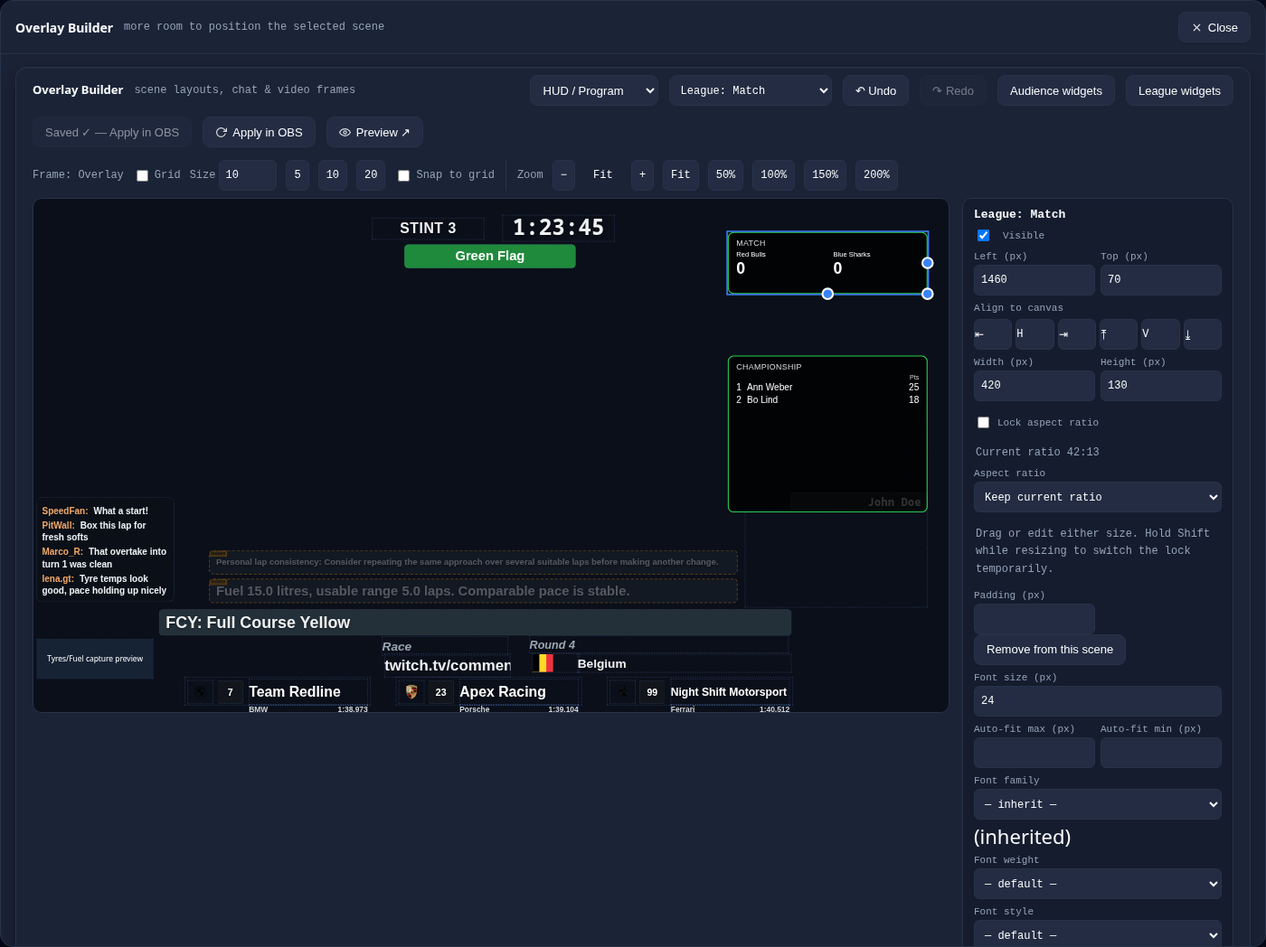
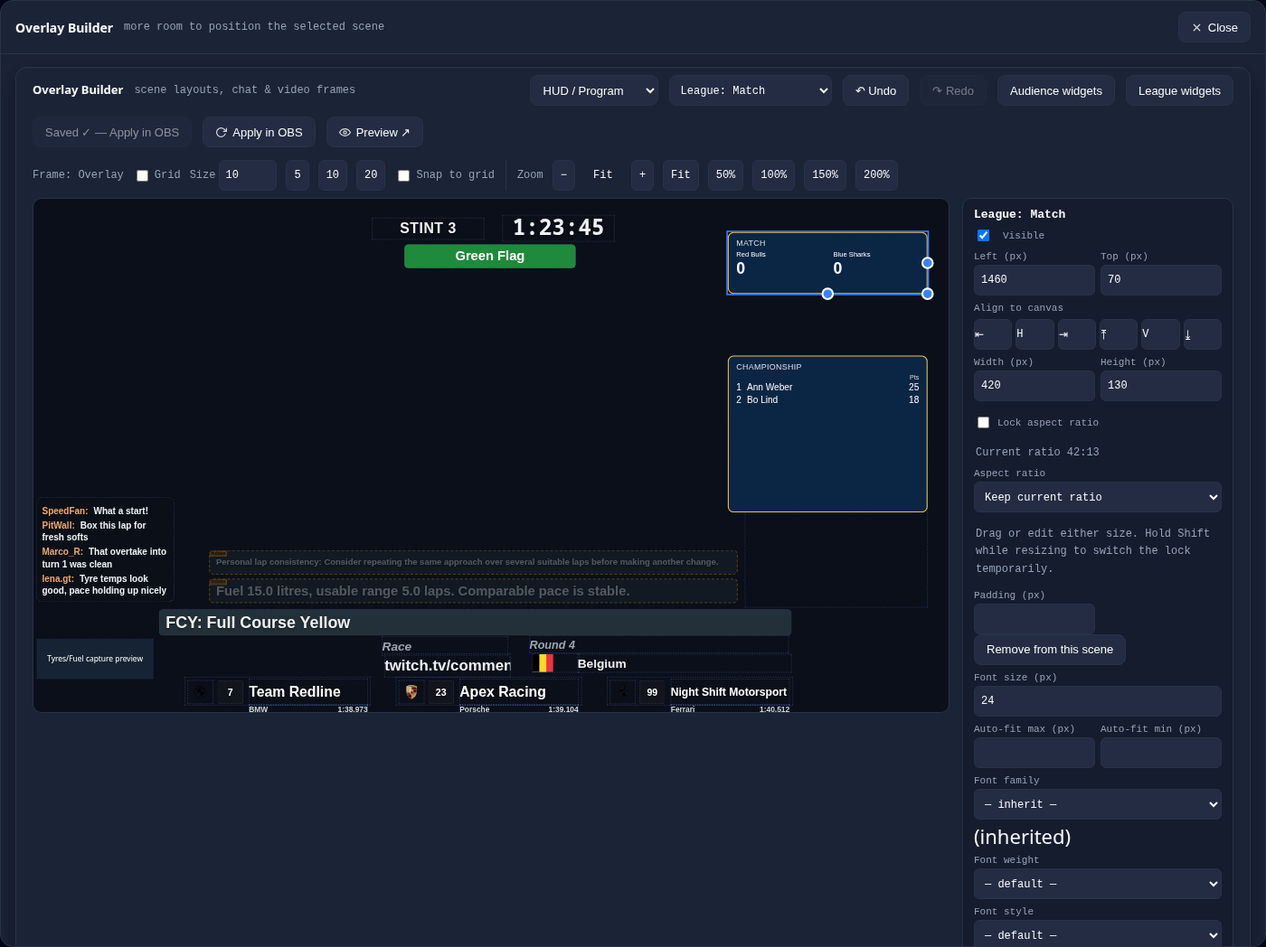
feat(league): league look from the profile's overlay variables, whole table rows, switch reset on event load
A widget's colours follow --league-widget-bg, -text and -accent from the
profile's overlay CSS and the builder keeps them as references. A table
shows the whole rows that fit its box and counts the rest. Loading an
event hides every widget again; the Companion keys switch by position.

Changed region(s): [[0.5529, 0.3664, 0.7371, 0.5496], [0.5529, 0.2443, 0.7371, 0.3359]]

diff --git a/src/ui/league-widgets.js b/src/ui/league-widgets.js
@@ -26,13 +26,26 @@
       parts.push(box);
     } else if (row.form === 'table') {
       const grid = node('div', 'lw-table');
-      if (typeof v.value_title === 'string' && v.value_title) grid.appendChild(node('span', 'lw-head', v.value_title));
-      (Array.isArray(v.rows) ? v.rows : []).forEach(r => {
-        grid.append(node('span', 'lw-rank', r.rank), node('span', 'lw-name', r.name), node('span', 'lw-row-value', r.value));
-      });
+      grid.head = typeof v.value_title === 'string' && v.value_title ? [node('span', 'lw-head', v.value_title)] : [];
+      grid.rows = (Array.isArray(v.rows) ? v.rows : []).map(r =>
+        [node('span', 'lw-rank', r.rank), node('span', 'lw-name', r.name), node('span', 'lw-row-value', r.value)]);
+      grid.append(...grid.head, ...grid.rows.flat());
       parts.push(grid);
     }
     el.replaceChildren(...parts);
+  }
+  // A table keeps only the whole rows that fit the box, its last line saying how many
+  // are left out. Measured once the slot is shown: a hidden slot has no height.
+  function capRows(el) {
+    const grid = el.querySelector('.lw-table');
+    if (!grid || !grid.rows || !(el.clientHeight > 0)) return;
+    const fits = () => el.scrollHeight <= el.clientHeight;
+    if (fits()) return;
+    for (let n = grid.rows.length - 1; n >= 0; n--) {
+      grid.replaceChildren(...grid.head, ...grid.rows.slice(0, n).flat(),
+        node('span', 'lw-more', '+' + (grid.rows.length - n) + ' more'));
+      if (fits()) return;
+    }
   }
   function expire(root, now = performance.now()) {
     slots(root).forEach(el => {
@@ -57,6 +70,7 @@
       deadlines.set(el, row.holdFor === null ? Infinity
         : Number.isFinite(row.holdFor) ? now + Math.max(0, Math.min(30, row.holdFor) - transit) * 1000 : now);
       el.hidden = false;
+      capRows(el);
     });
     expire(root, now);
     return true;

diff --git a/tests/test_league_widgets.py b/tests/test_league_widgets.py
@@ -124,6 +124,18 @@ def t_markup_escapes_the_title_and_only_placed_widgets_reach_a_page():
         pass
 
 
+def t_the_widget_colours_follow_the_profiles_overlay_variables():
+    page = lw.enhance_html(BASE, [SCORE], {lw.slot_id("match-score"): {}})
+    (slot,) = ob.extract_slots(page)
+    assert slot["vars"] == {"color": "var(--league-widget-text, #ffffff)",
+                            "background": "var(--league-widget-bg, rgba(0,0,0,.8))",
+                            "borderColor": "var(--league-widget-accent, #27d34d)"}, \
+        "the builder saves the colours as references, so a profile's :root variables restyle the widget"
+    css = ob.compile_overlay_css({"slots": {slot["id"]: {"left": 10, **slot["vars"]}},
+                                  "customCss": ":root { --league-widget-bg: #102030; }"}, [slot])
+    assert "background: var(--league-widget-bg, rgba(0,0,0,.8))" in css and "--league-widget-bg: #102030" in css, css
+
+
 def t_the_builder_offers_each_widget_as_a_slot_and_compiles_its_style():
     page = lw.enhance_html(BASE, [SCORE, TABLE], {lw.slot_id(w["id"]): {} for w in (SCORE, TABLE)})
     slots = {s["id"]: s for s in ob.extract_slots(page)}
@@ -263,6 +275,20 @@ def t_a_value_change_reaches_the_pages_only_once_the_director_shows_it():
         assert live.set("2", "toggle") == (True, "standings") and len(live.data()["widgets"]) == 2
         assert live.set("match-score", "toggle") == (True, "match-score")
         assert [w["id"] for w in live.data()["widgets"]] == ["standings"]
+
+
+def t_loading_an_event_hides_every_widget_again():
+    with tempfile.TemporaryDirectory() as d, league_sim.LeagueSim(key=KEY) as sim:
+        live, _snap = _live(d, sim)
+        live.client.step()
+        live.set("1", "show")
+        assert live.data()["widgets"], "shown"
+        live.client.step()
+        ls.update(ls.path_in(d), current="leg-2")
+        assert live.data()["widgets"], "a race change keeps the switch"
+        ls.store(ls.path_in(d), REF, ls.fetch_event(_cfg(sim), REF), now=4e9)
+        assert live.data()["widgets"] == [], "a reload of the event starts hidden again"
+        assert [r["shown"] for r in live.director()["widgets"]] == [False, False]
 
 
 def t_the_switch_refuses_a_widget_the_event_does_not_list():
@@ -542,6 +568,8 @@ function el(tag) {
   const e = {tagName: tag, children: [], _text: '', className: '', hidden: false, attrs: {},
     classList: {contains(c) { return e.className.split(' ').includes(c); }},
     getAttribute(a) { return e.attrs[a]; },
+    querySelector(sel) { const c = sel.slice(1); const find = n => n.className === c ? n
+      : n.children.map(find).find(Boolean); return e.children.map(find).find(Boolean) || null; },
     append(...k) { e.children.push(...k); }, appendChild(k) { e.children.push(k); return k; },
     replaceChildren(...k) { e.children = k; },
     set textContent(v) { e._text = String(v); e.children = []; }, get textContent() { return e._text; }};
@@ -553,8 +581,13 @@ function el(tag) {
 }
 global.window = global;
 global.performance = {now: () => 0};
+// A slot of `height` px: 40 px of title, 20 of table head, 30 per table line.
+const lines = e => e.children.reduce((n, k) => n + (['lw-rank', 'lw-more'].includes(k.className) ? 30
+  : k.className === 'lw-head' ? 20 : 0) + lines(k), 0);
 const slots = JSON.parse(process.argv[3]).map(s => { const e = el('div');
-  e.className = 'league-widget lw-form-' + s.form; e.attrs['data-league-widget'] = s.id; e.hidden = true; return e; });
+  e.className = 'league-widget lw-form-' + s.form; e.attrs['data-league-widget'] = s.id; e.hidden = true;
+  if (s.height) { e.clientHeight = s.height; Object.defineProperty(e, 'scrollHeight', {get: () => 40 + lines(e)}); }
+  return e; });
 made.length = 0;
 global.document = {currentScript: null, readyState: 'complete', createElement: el,
   querySelectorAll: () => slots};
@@ -596,6 +629,23 @@ def t_the_renderer_draws_score_and_table_and_hides_the_rest():
     assert out["texts"] == ["Match", "provisional", "", "", "A", "3",
                             "Champ", "", "Pts", "1", "Ann", "25"], out["texts"]
     assert out["expired"] == [True, False, True, True], "a held value hides at its deadline, a sample never"
+
+
+def t_a_table_keeps_only_the_whole_rows_that_fit_and_counts_the_rest():
+    rows = [{"rank": i, "name": f"Driver {i}", "value": str(30 - i)} for i in range(1, 21)]
+    data = {"widgets": [{"id": "t", "form": "table", "title": "Champ", "holdFor": 30,
+                         "value": {"value_title": "Pts", "rows": rows}},
+                        {"id": "u", "form": "table", "title": "Short", "holdFor": 30,
+                         "value": {"rows": rows[:2]}}]}
+    out = _render([{"id": "t", "form": "table", "height": 200}, {"id": "u", "form": "table", "height": 200}], data)
+    if out is None:
+        return
+    first = out["texts"][:out["texts"].index("Short")]
+    # 200 px: 40 title + 20 head + 3 rows + the "+17 more" line = 190
+    assert first == ["Champ", "", "Pts", "1", "Driver 1", "29", "2", "Driver 2", "28", "3", "Driver 3", "27",
+                     "+17 more"], first
+    assert out["texts"][out["texts"].index("Short"):] == ["Short", "", "1", "Driver 1", "29", "2", "Driver 2", "28"], \
+        "a table that fits keeps every row and no count line"
 
 
 def t_the_renderer_never_parses_service_text_as_markup():

diff --git a/tools/e2e-league-widgets.py b/tools/e2e-league-widgets.py
@@ -34,6 +34,7 @@ from test_league_result import _Source  # noqa: E402
 
 KEY = "e2e-league-widgets-key"
 HOSTILE = '<img src=x onerror="window.__pwned=1">'
+LOOK = ":root { --league-widget-bg: #0b2545; --league-widget-accent: #f2c14e; }"
 SCENES = (("hud", 1460, "/hud"), ("intermission", 300, "/intermission"), ("splitscreen", 700, "/splitscreen/hud"))
 SNAP = {"mode": "race", "state": "racing", "lap": 12, "entries": [
     {"pos": 1, "entry": "e1", "driver": "Ann Weber", "team": "Red Bulls", "laps": 12},
@@ -70,6 +71,9 @@ def builder(page, overlay, shots):
     for prop, value in (("left", 1460), ("top", 330)):
         page.evaluate("([p, v]) => { const f = ovState.fields[p]; f.value = v; f.dispatchEvent(new Event('input'));"
                       " f.dispatchEvent(new Event('change')); }", [prop, value])
+    page.evaluate("(css) => { document.getElementById('overlayCss').value = css; ovCustomCssChanged(); }", LOOK)
+    assert score.evaluate("el => getComputedStyle(el).backgroundColor") == "rgb(11, 37, 69)", \
+        "the canvas takes the league look from the profile's overlay variables"
     page.select_option("#ov-slotpick", "league-widget-match-score")
     page.evaluate("() => { const f = ovState.fields.left; f.value = 1460; f.dispatchEvent(new Event('input'));"
                   " f.dispatchEvent(new Event('change')); }")
@@ -77,6 +81,8 @@ def builder(page, overlay, shots):
     page.wait_for_function("() => document.getElementById('overlay-save').textContent.includes('Saved')")
     css = (overlay / "hud.css").read_text(encoding="utf-8")
     assert "#league-widget-standings { left: 1460px; top: 330px; width: 420px; height: 330px; font-size: 24px;" in css, css
+    assert "background: var(--league-widget-bg, rgba(0,0,0,.8))" in css and LOOK in css, \
+        "the saved style keeps the colours as variable references"
     if shots:
         page.locator("#ov-modal .ovmodal-card").screenshot(path=str(ROOT / "src/docs/wiki/images/cc-league-widgets.png"))
     for scene, left, _path in SCENES[1:]:
@@ -117,6 +123,8 @@ def live_pages(browser, relay_port, sim, shots):
     hud.on("pageerror", lambda error: errors.append(str(error)))
     hud.goto(f"http://127.0.0.1:{relay_port}/hud")
     hud.wait_for_function("() => !document.getElementById('league-widget-match-score').hidden")
+    assert hud.locator("#league-widget-match-score").evaluate("el => getComputedStyle(el).backgroundColor") \
+        == "rgb(11, 37, 69)", "on air the widget wears the league look"
     labels = hud.locator("#league-widget-match-score .lw-label").all_text_contents()
     assert labels == ["Red Bulls", "Blue Sharks"], labels
     assert hud.locator("#league-widget-standings").get_attribute("hidden") is not None, "the hidden one stays hidden"
@@ -125,6 +133,22 @@ def live_pages(browser, relay_port, sim, shots):
     hud.wait_for_function("() => document.querySelector('#league-widget-match-score .lw-value').textContent === '7'")
     assert hud.locator("#league-widget-match-score .lw-label").text_content() == HOSTILE
     assert hud.locator("#league-widget-match-score img").count() == 0 and not hud.evaluate("window.__pwned")
+    long_table = {"value_title": "Pts", "rows": [{"rank": i, "name": f"Driver {i}", "value": str(40 - i)}
+                                                 for i in range(1, 21)]}
+    sim.answer("live", body={"v": 1, "widgets": {"match-score": {"values": [{"label": "A", "value": "1"}]},
+                                                 "standings": long_table}})
+    hud.request.get(f"http://127.0.0.1:{relay_port}/league/widget/2/show")
+    hud.wait_for_function("() => document.querySelector('#league-widget-standings .lw-more')")
+    more = hud.locator("#league-widget-standings .lw-more").text_content()
+    shown = hud.locator("#league-widget-standings .lw-name").count()
+    assert more == f"+{20 - shown} more" and 0 < shown < 20, (more, shown)
+    bottom = hud.locator("#league-widget-standings").evaluate("el => el.getBoundingClientRect().bottom")
+    for kind in (".lw-name", ".lw-more"):
+        for box in hud.locator("#league-widget-standings " + kind).evaluate_all(
+                "els => els.map(e => e.getBoundingClientRect().bottom)"):
+            assert box <= bottom, f"{kind} cut at the box edge: {box} > {bottom}"
+    hud.request.get(f"http://127.0.0.1:{relay_port}/league/widget/2/hide")
+    print(f"  [PASS] a 20-row table shows {shown} whole rows and '{more}'")
     sim.clear_answers()
     for _scene, left, path in SCENES[1:]:
         view = browser.new_page(viewport={"width": 1920, "height": 1080})
@@ -137,6 +161,7 @@ def live_pages(browser, relay_port, sim, shots):
         assert view.locator("[data-league-widget]").count() == placed, f"{path}: only the placed widgets"
         view.close()
     panel.wait_for_function("() => document.querySelector('#leagueWidgets .lwrow .lwstate').textContent.startsWith('On air')")
+    panel.wait_for_function("() => document.querySelectorAll('#leagueWidgets .lwrow button')[1].textContent === 'SHOW'")
     if shots:
         panel.locator("#leagueSec").screenshot(path=str(ROOT / "src/docs/wiki/images/director-panel-league.png"))
     print("  [PASS] the Director shows a widget and the HUD renders the service's text as text")

diff --git a/src/scripts/league_widgets.py b/src/scripts/league_widgets.py
@@ -90,8 +90,7 @@ WIDGET_PROPS = ("left", "top", "width", "height", "padding", "fontSize", "fontFa
 WIDGET_CSS = """
 .league-widget{position:absolute;box-sizing:border-box;left:1400px;top:70px;width:420px;
 height:130px;padding:12px 16px;z-index:10;font-size:24px;line-height:1.2;font-family:inherit;
-color:#fff;background:rgba(0,0,0,.8);border:2px solid var(--lw-accent,#27d34d);border-radius:12px;
-overflow:hidden}
+border:2px solid;border-radius:12px;overflow:hidden}
 .league-widget.lw-form-table{height:330px}
 .league-widget[hidden],.league-widget [hidden]{display:none!important}
 .lw-title{display:block;font-size:.7em;opacity:.85;text-transform:uppercase;letter-spacing:.04em}
@@ -104,7 +103,17 @@ overflow:hidden}
 .lw-head{grid-column:3;font-size:.7em;opacity:.8;text-align:right}
 .lw-rank,.lw-row-value{font-variant-numeric:tabular-nums;text-align:right}
 .lw-name{overflow:hidden;text-overflow:ellipsis;white-space:nowrap}
+.lw-more{grid-column:1/-1;font-size:.8em;opacity:.8}
 """
+# The league look: a profile sets these in its overlay CSS (`:root { --league-widget-bg: ... }`).
+COLOURS = {"color": "var(--league-widget-text, #ffffff)",
+           "background": "var(--league-widget-bg, rgba(0,0,0,.8))",
+           "border-color": "var(--league-widget-accent, #27d34d)"}
+
+
+def _colour_rule(wid):
+    """The slot's own #id rule, so the builder keeps the colours as variable references."""
+    return f"#{slot_id(wid)}{{" + ";".join(f"{k}:{v}" for k, v in COLOURS.items()) + "}\n"
 
 
 def markup(widget):
@@ -122,8 +131,8 @@ def enhance_html(base, definitions, placements, live=False):
     selected = [w for w in definitions if slot_id(w["id"]) in placements]
     if not selected:
         return base
-    base = base.replace("</style>", WIDGET_CSS + "</style>", 1)
     elements = "".join(markup(w) for w in selected)
+    base = base.replace("</style>", WIDGET_CSS + "".join(_colour_rule(w["id"]) for w in selected) + "</style>", 1)
     script = f'<script src="{SCRIPT}" data-league-live></script>' if live else ""
     marker = "<script" if "<script" in base else "</body>"
     return base.replace(marker, elements + script + marker, 1)
@@ -193,6 +202,7 @@ class Live:
         self._env_path = env_path
         self._shown = set()
         self._lock = threading.Lock()
+        self._loaded = None             # (ref, loaded_at) of the event the switch belongs to
         self._order = None
         self._env_stamp = _stamp(env_path)
         self.client = league_service.Client(lambda: self._settings()[0], self.body, self.forms, **client_kw)
@@ -221,7 +231,13 @@ class Live:
         self.client.run(stop)
 
     def _event_widgets(self):
+        """The loaded event's widgets; loading an event hides every widget again."""
         ev = league_service.read(self._event_path)
+        loaded = (ev["ref"], ev["loaded_at"]) if ev else None
+        with self._lock:
+            if loaded != self._loaded:
+                self._loaded = loaded
+                self._shown.clear()
         return ev["widgets"] if ev else []
 
     def forms(self):
@@ -256,11 +272,12 @@ class Live:
     def data(self):
         """What the overlay pages render: each widget the Director shows that has a
         value inside the hold, with the seconds it may still be shown."""
+        widgets = self._event_widgets()
         held = self.client.held()
         with self._lock:
             shown = set(self._shown)
         out = []
-        for w in self._event_widgets():
+        for w in widgets:
             value = held.get(w["id"])
             if w["id"] in shown and value is not None:
                 out.append({"id": w["id"], "form": w["form"], "title": w["title"],
@@ -274,9 +291,9 @@ class Live:
         st = dict(self.client.status(), problem=self._settings()[1])
         held = self.client.held()
         placed = placements(self._overlay_dir) if self._overlay_dir else {}
+        listed = self._event_widgets()
         with self._lock:
             shown = set(self._shown)
-        listed = self._event_widgets()
         rows = []
         for i, w in enumerate(listed, 1):
             rows.append({"id": w["id"], "index": i, "title": w["title"], "form": w["form"], "listed": True,

diff --git a/src/relay/CLAUDE.md b/src/relay/CLAUDE.md
@@ -375,7 +375,7 @@ form in the two HTML files. Tests: `tests/test_submissions.py`.
 
 **League result export (#1254).** `league_result.Exporter` gets the race state on the dashboard tick (`dashboard_ticks`, its own try, armed once the relay owns its port) and sends on its own `league-result` thread; the race service gives it `race_state`, `result_source` (standings with roster team and number, `Race.best_laps`, the confirmed fastest lap, the recording's start and confirmed disconnects), `store_result`, `recording_results` and `mark_race_start` (a `race_start` audit line when a race starts counting, where the steward events of the next result begin). A restart marks sends the old relay left unfinished as failed, never resumes them. Routes, director-only under `/console` (`console_policy`): `GET /league/status` (event, current race, `done` note, result statuses, queued sends; never the key), `POST /league/race` (the Director sets the current race), `POST /league/result/send` (rebuilt from the live race while it stands finished, else the recording's copy), `GET /league/graphic?race=` and `POST /league/graphic/take` (copies the staged PNG over `graphics/Race Results.png` and re-points the `Race Results` input so OBS reloads it; never shows it). The Director Panel's **League result** section in the Race area polls the status every 3 s. Spec: `src/docs/design/league-service.md`. Tests: `tests/test_league_result.py`, `tests/test_league_routes.py`.
 
-**League live state and widgets (#1255).** `league_widgets.Live` owns the `league_service.Client` sender (thread `league-live`, started after `league_exporter.arm()`) and the Director's on-air switch (in memory, default hidden). `dashboard_ticks` hands it `race_svc.live()` (the newest undelayed snapshot with each race row's `best_ms`) in its own try: `observe` only wakes the sender on a new running order or mode and reloads its settings when `RACECAST_PROFILE_ENV_FILE` changed, so the tick never waits for the service. The body is `league_service.live_state` for the `league-event.json` reference and current race. Routes: `GET /league/widgets` (Director list with switch, placed scenes, reason) and `GET /league/widget/<id|1-8>/<show|hide|toggle>` (Companion), both in `_league_get` ahead of the exporter check and director-only under `/console`; `GET /league-widgets/data` (root only, the shown widgets with a value inside the 30 s hold and their remaining `holdFor`) and `/league-widgets.js` for the overlay pages. `_send_audience_page` and `/splitscreen/hud` also run `league_widgets.live_html`, which injects the widgets placed in that scene's layout as hidden `league-widget-<id>` elements. Tests: `tests/test_league_widgets.py`, `tools/e2e-league-widgets.py` (browser), the e2e league check.
+**League live state and widgets (#1255).** `league_widgets.Live` owns the `league_service.Client` sender (thread `league-live`, started after `league_exporter.arm()`) and the Director's on-air switch (in memory, default hidden, cleared when another event or a reload of it lands in `league-event.json`). `dashboard_ticks` hands it `race_svc.live()` (the newest undelayed snapshot with each race row's `best_ms`) in its own try: `observe` only wakes the sender on a new running order or mode and reloads its settings when `RACECAST_PROFILE_ENV_FILE` changed, so the tick never waits for the service. The body is `league_service.live_state` for the `league-event.json` reference and current race. Routes: `GET /league/widgets` (Director list with switch, placed scenes, reason) and `GET /league/widget/<id|1-8>/<show|hide|toggle>` (Companion), both in `_league_get` ahead of the exporter check and director-only under `/console`; `GET /league-widgets/data` (root only, the shown widgets with a value inside the 30 s hold and their remaining `holdFor`) and `/league-widgets.js` for the overlay pages. `_send_audience_page` and `/splitscreen/hud` also run `league_widgets.live_html`, which injects the widgets placed in that scene's layout as hidden `league-widget-<id>` elements. Tests: `tests/test_league_widgets.py`, `tools/e2e-league-widgets.py` (browser), the e2e league check.
 
 **Relay-mediated OBS control (Director Panel).** The Director Panel's scene switches, visibility toggles, and audio controls go through the relay, not a direct browser→OBS-WebSocket connection. Six director-gated endpoints (all checked via `console_policy` before dispatch): `POST /obs/scene` (switch scene), `POST /obs/source` (show/hide a source with `on`, or `toggle: true` to flip the state OBS reports under one lock, `switch_scene_item`; with `from`, the state the caller's key shows, it switches only while OBS still reports that state and otherwise answers the real state with `changed: false`. The panel's graphic keys and RED FLAG send toggle plus `from` and hold the key while the request runs, so a stale light, a double tap or a second director never undoes a switch. The answer carries `enabled` and `changed`. A toggle ends the desk's `rc_red_flag_raised` claim only when it lowered the cover. A Standby Cover toggle OBS cannot read or switch answers 503 with `red_flag` and `changed`, the direction from the relay's own record `red_flag_on_record` (the last cover state it switched, read through `/obs/state`, the auto-cover tick or the desk, `relay.cover_last`; only without one the HUD banner or the desk's claim), so the panel's RED FLAG still sets the banner and holds the race; a cover OBS reports but refuses to switch answers `changed: true` with the intended direction, and the panel repeats banner and hold on `changed: false` too, since a cover raised by auto-cover or Companion still needs them), `POST /obs/audio` (set input volume/mute; `toggle: true` with `from` flips the mute under the same rules, `toggle_input_mute`, and answers with `muted` and `changed`, which the panel's Mute key sends), `POST /obs/stream` (start/stop the OBS stream output), `POST /obs/state` (batch read of current scene + source visibility + audio levels), `POST /obs/refresh` (reload the relay-served OBS browser sources, the programmatic right-click → Refresh; best-effort; unconditional force). Beside those, `GET`/`POST /obs/split` sets the Splitscreen from the on-air feed (both feeds visible, on-air audio live, the rest muted; pure resolver `obs_ws.split_state_intents`) for the Companion `SPLIT` button and the panel macro, and `/obs/split-audio` is its audio-only predecessor, kept for older boards. `GET /obs/stint/<A|B|live>` / `POST /obs/stint` does the same for STINT (`live`, the on-air feed) or a hand-picked A/B (visibility, audio, the commentary mic of a local stint) without touching the relay's on-air state; the scene cut stays with the caller for both. `GET /obs/graphic/<show|hide|toggle>/<source>` (`apply_graphic`, #706) switches one of `obs_ws.GRAPHIC_SOURCES` in `obs_ws.graphic_scene(solo)`, Stint for endurance and Program for solo, so the shared Companion board's graphic buttons and `RED FLAG` work in both kinds; `toggle` reads the item first and answers 503 when OBS cannot report it. The relay calls `src/scripts/obs_ws.py` on the producer's machine, where the OBS-WebSocket password is auto-discovered from OBS's own config (overridable via `RACECAST_OBS_WS_PASSWORD` in `.env`); the password never crosses the network and OBS-WebSocket is **never** funnelled. The Director Panel therefore needs **no OBS IP, port, or password** from the director, the panel works fully over Funnel (`/console/panel`) using only the per-person token. The program monitor was already relay-mediated (`GET /preview/program`, any-auth, console-allowed) and is unchanged. All six OBS helpers follow the same best-effort contract as `get_program_screenshot`, they never raise. For the five control/read endpoints an unreachable OBS (`obs_ws._connect()` returning `None`) maps to a `503` with a descriptive note; `POST /obs/refresh` is best-effort fire-and-forget and instead returns `count: 0` with the note (a `503` only when obs-websocket support is absent entirely). Tests: `tests/test_obsws.py`.
 

diff --git a/src/docs/design/league-service.md b/src/docs/design/league-service.md
@@ -133,8 +133,13 @@ shows it dimmed, and on air it stays hidden because the loaded event does not na
 
 A placed widget reaches a live page as a hidden element; the page polls
 `/league-widgets/data` once a second and fills it from elements and text only. The
-league look is the scene's own: the widget inherits the page font, and its position, size,
-colours, border and font are slot props of the builder like any HUD slot.
+league look comes from the profile's overlay CSS: the widget inherits the page font, and
+its colours are the variables `--league-widget-bg`, `--league-widget-text` and
+`--league-widget-accent` (the border), which a league sets in `:root` of its overlay CSS.
+Without them the widget is white on translucent black with a green border. The builder
+keeps those colours as variable references on save; position, size, font and a colour
+the producer sets by hand are slot props like any HUD slot. A table shows only the whole
+rows that fit its box, the last line counting the rest ("+11 more"); a row is never cut.
 
 ### Result
 
@@ -237,13 +242,16 @@ The tick hands it the standings and never waits for it.
 - Placement: a slot per widget in the scene builders, positioned and styled per scene
   like the audience counters.
 - On air: the Director shows and hides each widget. Default hidden. The switch lives in
-  the relay's memory, so a relay restart hides every widget again. A widget is on air
+  the relay's memory, so a relay restart hides every widget again, and so does loading an
+  event (another reference or a reload of the same one); a change of the current race
+  keeps it. A widget is on air
   only when it is shown, placed in the scene and has a value inside the hold. The routes
   are `GET /league/widgets` (each widget with its switch, the scenes it is placed in and
   the reason it cannot show) and `GET /league/widget/<id or place>/<show|hide|toggle>`,
   director-only under `/console`. The place is the widget's 1-based position in the
   event's list, so the Companion buttons **LEAGUE WIDGET 1** and **LEAGUE WIDGET 2** on
-  page 3 work for any league.
+  page 3 work for any league. A service that reorders its widget list moves what a
+  button switches.
 - Timing page: the profile switch decides, independent of the on-air state. The block
   sits above the table. The league timing host stores and broadcasts the relay's state
   body unparsed, so the block reaches hosted viewers without a Worker change; the

diff --git a/src/ui/CLAUDE.md b/src/ui/CLAUDE.md
@@ -248,8 +248,12 @@ manager, scene callbacks, live pages and fake-clock rendering without services.
 HUD, and `overlay_slots_data` returns it as `league`. The builder's **League widgets** dialog
 places or removes a widget per scene (hidden on the driver dashboard); the canvas shows only
 placed ones, filled by the shared `league-widgets.js` from each widget's `sample`, an
-unlisted one dimmed. Save compiles their rules like any slot. The widget's default height
-(130 px score, 330 px table) gets pinned by the save-all. `tools/e2e-league-widgets.py
+unlisted one dimmed. Save compiles their rules like any slot. Each placed widget carries
+its own `#league-widget-<id>` colour rule of `var(--league-widget-text|bg|accent, …)`, so
+`extract_slots` reports them as `vars` and the save keeps the references (the league
+look from the profile's `:root`). The default height (130 px score, 330 px table) gets
+pinned by the save-all; the renderer then caps a table to the whole rows that fit plus a
+"+N more" line. `tools/e2e-league-widgets.py
 --shots` writes `cc-league-widgets.png` and `director-panel-league.png`.
 
 ### Asset aliases (#936)

diff --git a/src/docs/wiki/HUD-Overlays.md b/src/docs/wiki/HUD-Overlays.md
@@ -339,6 +339,14 @@ resize and restyle it like any other slot (position, size, font, colours, border
 and the Split HUD can show the same widget in different places. The driver dashboard has
 no league widgets.
 
+The widget uses the scene's font. Its colours follow three variables a league sets in
+the overlay CSS (**Fonts & advanced CSS**), for example
+`:root { --league-widget-bg: #0b2545; --league-widget-accent: #f2c14e; }`
+(`--league-widget-text` for the text). Without them it is white on translucent black
+with a green border. A colour you set on the slot itself wins for that scene. A table
+shows as many whole rows as its box holds and ends with a line such as "+11 more"; make
+the box taller to show more rows.
+
 A placed widget stays hidden on air until the Director shows it
 ([Director → League service](Director#league-service)). If the league service stops
 listing a widget, the builder keeps it dimmed and marked "no longer listed": its placement

diff --git a/src/docs/wiki/Director.md b/src/docs/wiki/Director.md
@@ -376,8 +376,9 @@ where the producer placed it in the Overlay builder, and only while the service 
 30 seconds after the last good answer it hides by itself, and the card says why (for
 example "no good answer from the league service for 31 s" with the service's error). A
 widget the service no longer lists stays in the list without a switch. A relay restart
-hides every widget again. On the Companion board, **LEAGUE WIDGET 1** and **LEAGUE
-WIDGET 2** (page 3) switch the first and second widget of the event's list.
+or loading the event again hides every widget. On the Companion board, **LEAGUE WIDGET 1** and **LEAGUE
+WIDGET 2** (page 3) switch the first and second widget of the event's list, by position:
+if the service reorders its list, the buttons follow the new order.
 
 ![Director Panel: the League service card with the current race, the result line and the two widgets, one on air](images/director-panel-league.png)
 

diff --git a/src/docs/wiki/Companion.md b/src/docs/wiki/Companion.md
@@ -64,6 +64,7 @@ that's the operator's reference for actually using the board.
 
 This page covers only how the board is wired up. The relay buttons (`Feeds Next`,
 `Feeds Reload`, `Feed A Reload`, `Feed B Reload`, `POV Reload`, `POV Stop`, the **BREAK** visibility/defaults buttons,
+`LEAGUE WIDGET 1`/`2` → `/league/widget/<n>/toggle` (the first and second widget of the loaded league event, by position in the service's list),
 `POV Toggle` → `/pov/toggle`, `Telemetry Toggle` → `/telemetry/toggle` (solo POV only; elsewhere the relay answers 404 and the press does nothing), and the `FEED A/B ROBUST/AUTO` quality switches → `/feed/<A|B>/quality/<tier>`)
 use the **Generic HTTP Requests**
 connection: see [Relay Mode §4](Relay-Mode#4-control-it-companion--relay). Everything else
